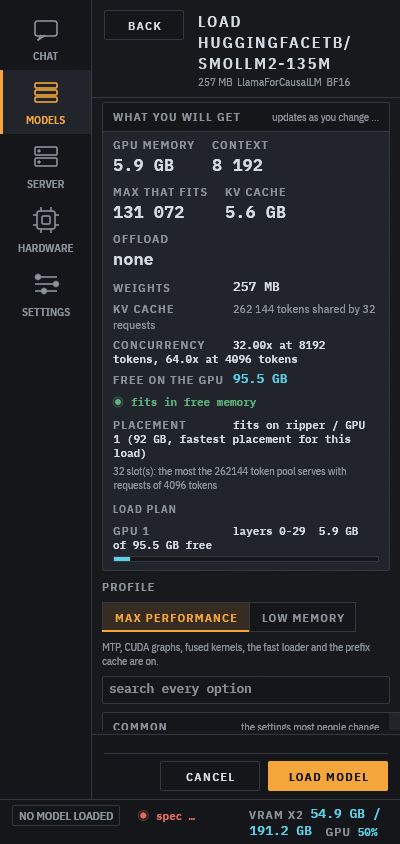
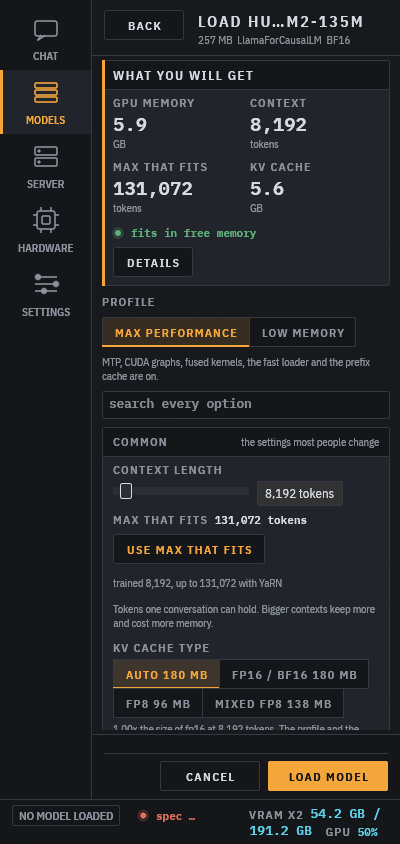
Tile fix, new load page screenshots

diff --git a/crates/specrt/tests/no_arch_names.rs b/crates/specrt/tests/no_arch_names.rs
@@ -57,7 +57,7 @@ const ALLOWED: &[Entry] = &[
     Entry { path: "ui/src/models.rs", lines: 1, kind: Kind::Permanent, note: "example model name shown as a hint" },
     Entry { path: "core/src/fit.rs", lines: 1, kind: Kind::Permanent, note: "fit tests over a real model fixture" },
     Entry { path: "ui/src/table.rs", lines: 3, kind: Kind::Permanent, note: "UI tests over real model fixtures" },
-    Entry { path: "ui/src/tests.rs", lines: 152, kind: Kind::Permanent, note: "UI tests over real model fixtures" },
+    Entry { path: "ui/src/tests.rs", lines: 153, kind: Kind::Permanent, note: "UI tests over real model fixtures" },
 ];
 
 fn allowed(rel: &str) -> usize {

diff --git a/crates/ui/src/load.rs b/crates/ui/src/load.rs
@@ -806,7 +806,7 @@ fn result_card(ui: &mut egui::Ui, d: &LoadDialog, env: &Env, spread: &Option<Res
         let tiles = [
             ("gpu memory", human_size(e.total()), total_tint),
             ("context", format!("{} tokens", tokens(d.ctx)), VALUE),
-            ("max that fits", fits.map_or("-".to_string(), |n| format!("up to {} tokens", tokens(n))), VALUE),
+            ("max that fits", fits.map_or("-".to_string(), |n| format!("{} tokens", tokens(n))), VALUE),
             ("kv cache", human_size(e.kv), kv_tint),
         ];
         let gap = 8.0;
